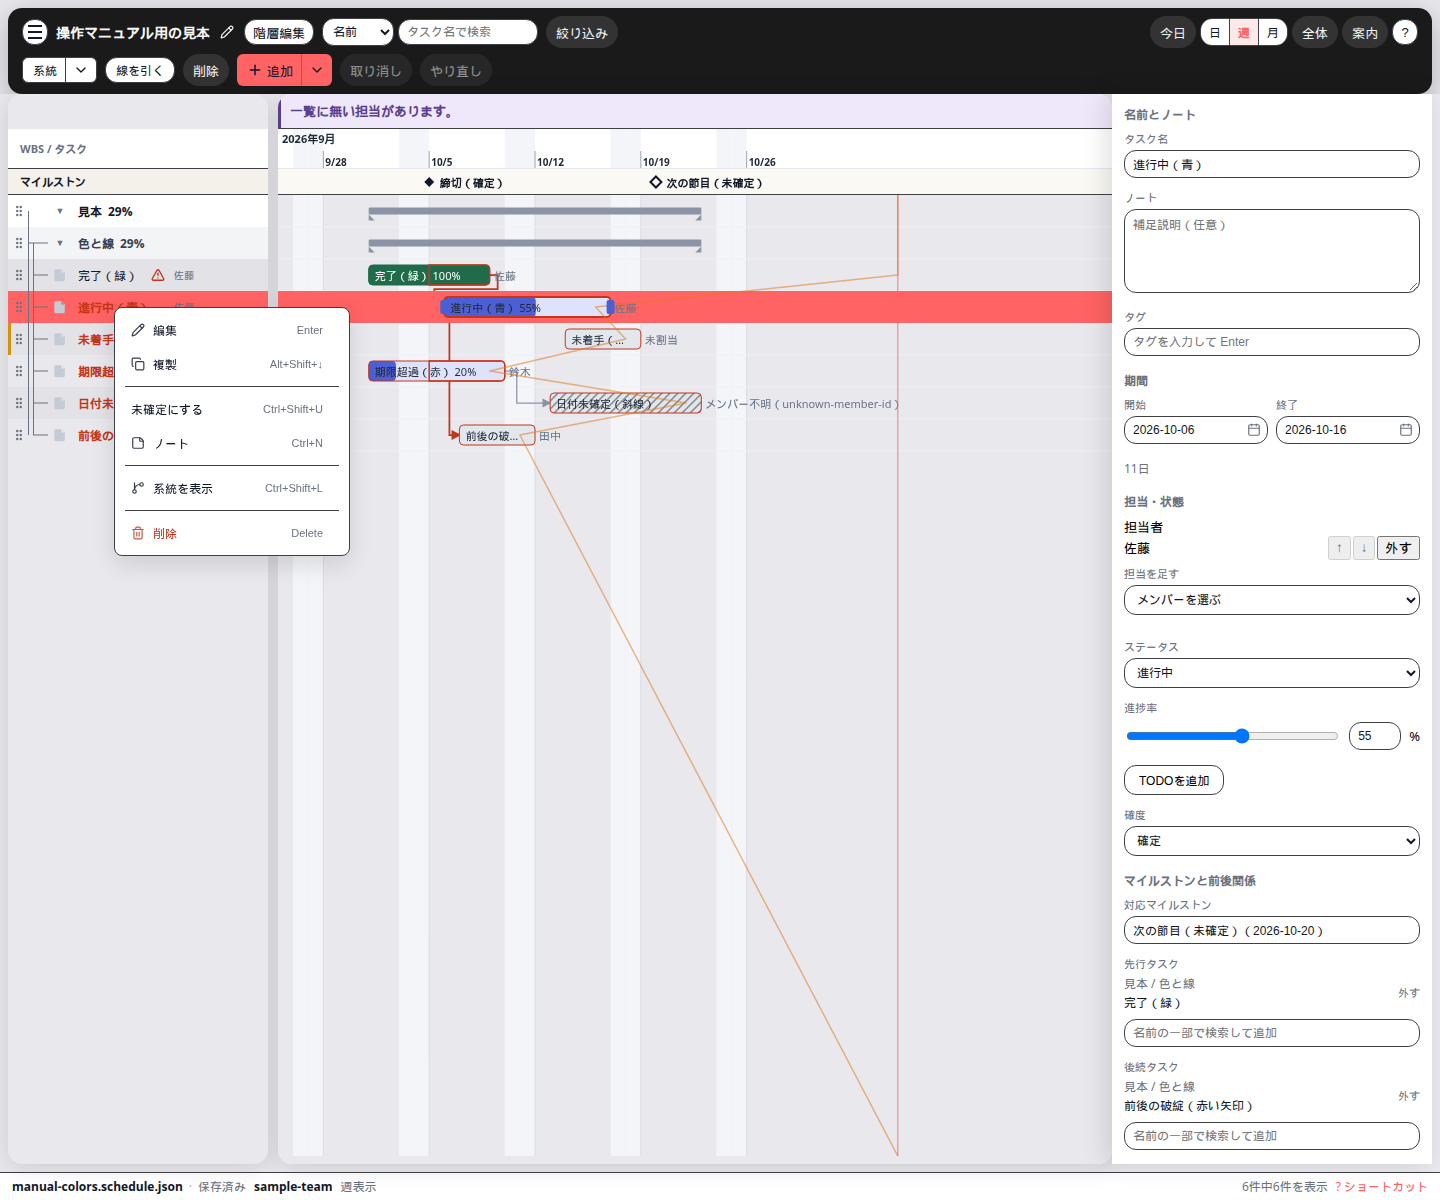
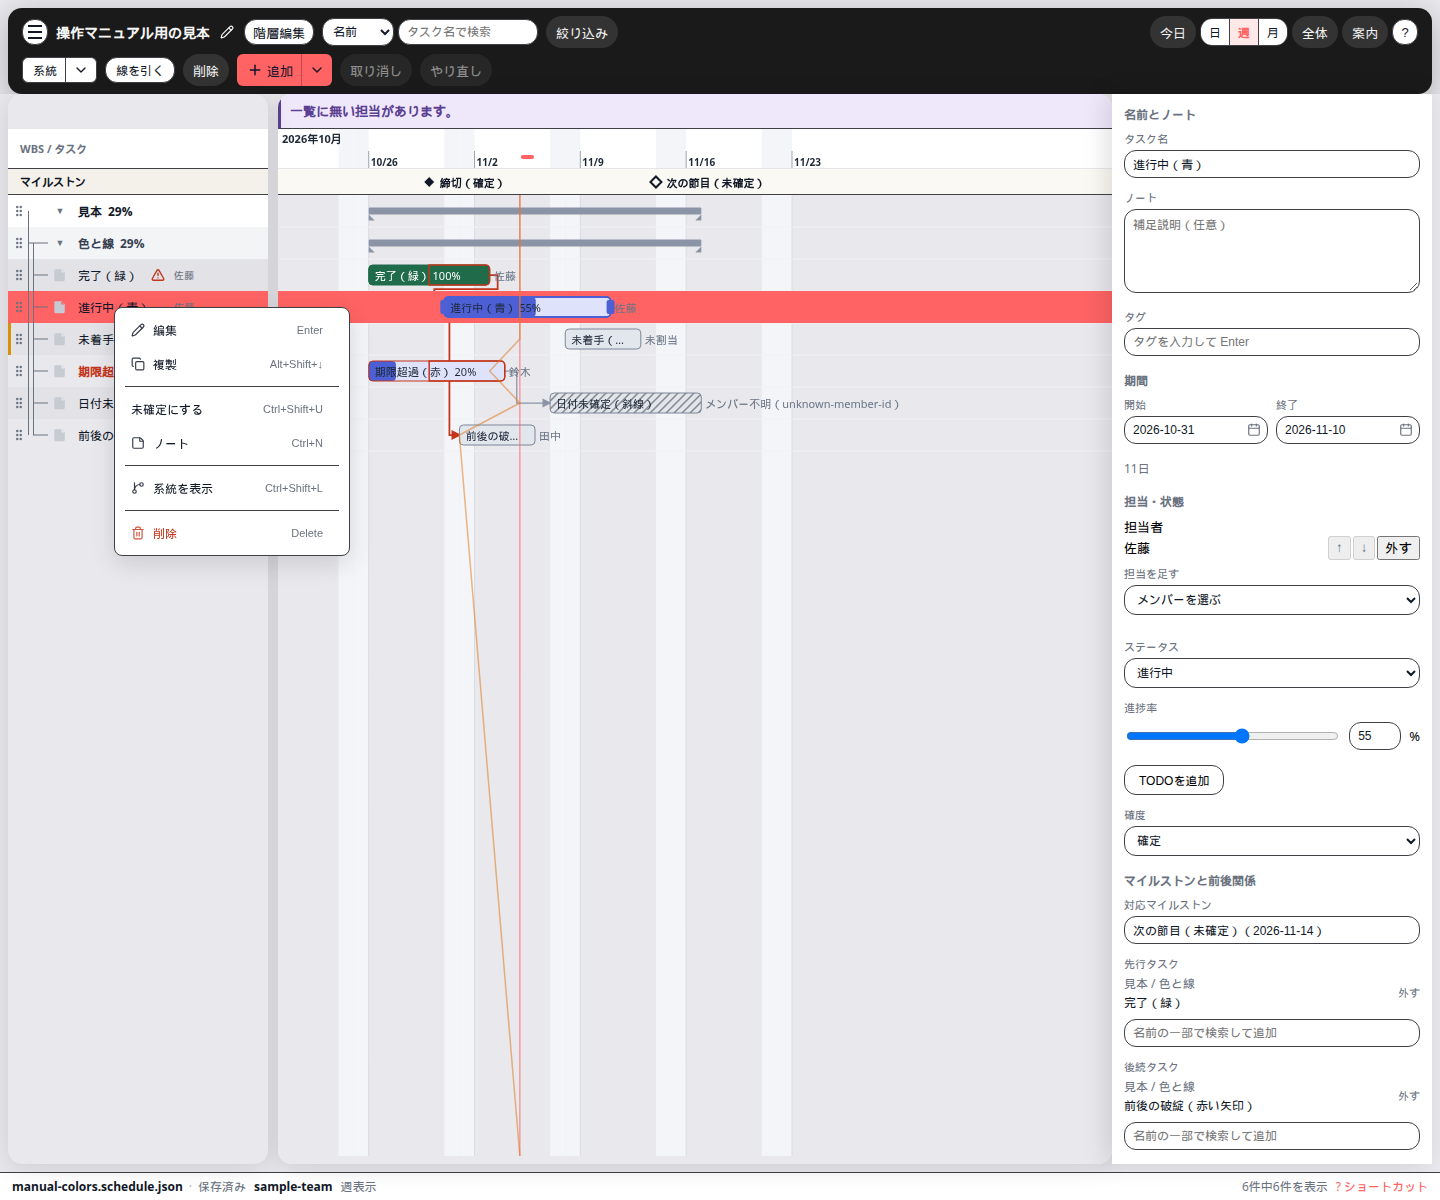
docs(manual): anchor sample dates to capture day for screenshots
Shift manual-colors.schedule.json by +25 days so 2026-11-05 falls in
the active range, pan the chart after「今日」during capture, and note
the rewrite step in development.md. Retake all manual PNGs.

diff --git a/docs/development.md b/docs/development.md
@@ -220,7 +220,7 @@ DevContainer で開発する場合は、コンテナ内の Node.js 24 と Rust 1
 | `npm run build` | 検証器の生成、`tsc`、Vite の本番ビルド |
 | `npm run preview` | 本番ビルドのプレビュー |
 | `npm run dev:manual-screenshot` | 操作マニュアル用の画面ショット撮影向けに、Tauri をモックした Vite を起動する |
-| `npm run capture:manual-screenshots` | [操作マニュアル](user-manual.md) 用の PNG を `docs/user-manual/images/` に生成する。Chrome が入っていること。色の見本は `examples/manual-colors.schedule.json` |
+| `npm run capture:manual-screenshots` | [操作マニュアル](user-manual.md) 用の PNG を `docs/user-manual/images/` に生成する。Chrome が入っていること。色の見本は `examples/manual-colors.schedule.json`。撮る前に、その JSON の日付を撮影日（`manualScreenshotTodayIso`）基準へ平行移動する |
 | `npm run build:manual-site` | [操作マニュアル](user-manual.md) だけを `site/` に静的 HTML として出力する。fragment と画像の参照を検査する。パスの無い `#見出し` は、そのリンクがあるページの見出しと照合する。全機能の HTML には h2 と h3 の見出し一覧を出す。出力は git に含めない |
 | `npm run tauri` | Tauri CLI を呼ぶ。後ろに `dev` や `build` を付けて使う |
 | `npm run tauri:dev:fresh` | `SCHEDULE_VIEWER_FRESH_START=1` 付きの `tauri dev`。アプリデータと localStorage を初回起動相当にしてから起動する（開発ビルドのみ） |
